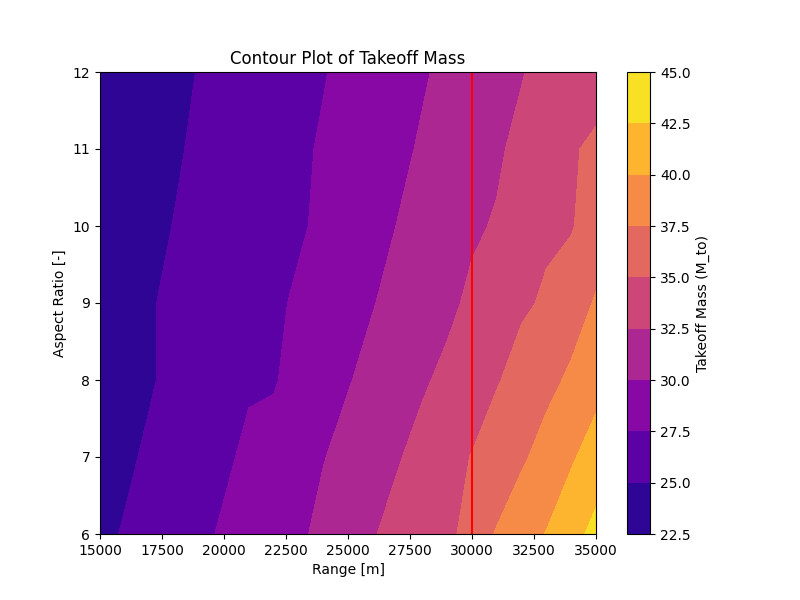
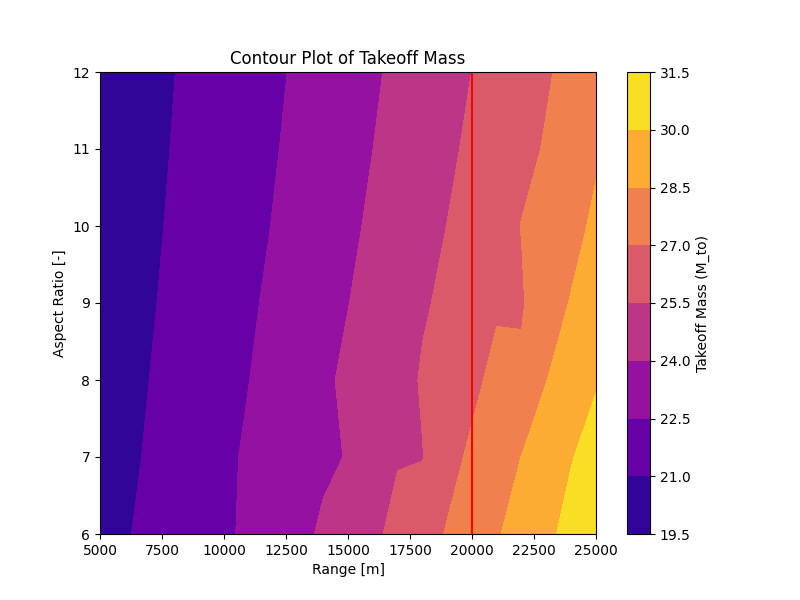
small adjustments

diff --git a/DetailedDesign/subsystems/deployment.py b/DetailedDesign/subsystems/deployment.py
@@ -40,11 +40,9 @@ class Deployment:
 
     def __init__(self, inputs: dict[str, float]) -> None:
         self.inputs = inputs
-        self.outputs = self.inputs.copy()
 
         self.payload_mass = inputs['payload_mass']
 
-        self.aerogel_mass = inputs['aerogel_mass']
         self.aerogel_width = inputs['aerogel_width']
         self.aerogel_thickness = inputs['aerogel_thickness']
         self.aerogel_density = inputs['aerogel_density']
@@ -56,7 +54,6 @@ class Deployment:
         self.n_wire = inputs['n_wire']
         self.wire_length = inputs['wire_length']
         self.wire_density = inputs['wire_density']
-        self.wire_mass = inputs['wire_mass']
 
         self.spring_mass = inputs['spring_mass']
         self.winch_mass = inputs['winch_mass']
@@ -74,34 +71,33 @@ class Deployment:
         self.epm_duration = inputs['epm_duration']
         self.power_required_winch = inputs['power_required_winch']
 
-        self.cg_change_deployment = inputs['cg_change_deployment']
         self.deployment_accuracy = inputs['deployment_accuracy']
 
         self.fuselage_size = inputs['fuselage_size']
 
     # ~~~ Intermediate Functions ~~~
 
-    def determine_aerogel_size(self):
+    def aerogel_size(self):
         '''
         Aerogel dimensions and mass based on available payload mass
         '''
         aerogel_mass = self.payload_mass - self.ferro_magnet_mass*self.n_ferro_magnets - self.deployment_added_mass
-        aerogel_length = self.aerogel_mass / (self.aerogel_width*self.aerogel_thickness)
+        aerogel_length = aerogel_mass / (self.aerogel_width*self.aerogel_thickness*self.aerogel_density)
         aerogel_diameter = compute_outer_diameter(aerogel_length, self.aerogel_thickness, self.epm_diameter)
 
         return aerogel_mass, aerogel_length, aerogel_diameter
     
-    def determine_wire_mass(self):
+    def wire_mass(self):
         '''
         Wire mass
         '''
         return self.wire_length*self.wire_density
 
-    def determine_deployment_system_mass(self):
+    def deployment_system_mass(self):
         '''
         Deployment system mass based on the number of wires, springs, winch, pulleys and EPMs
         '''
-        return self.winch_mass + self.spring_mass*self.n_wire + self.wire_mass*self.n_wire + self.payload_mass +self.n_pulleys*self.pulley_mass +self.n_epms*self.epm_mass
+        return self.winch_mass + self.spring_mass*self.n_wire + self.wire_mass()*self.n_wire + self.payload_mass +self.n_pulleys*self.pulley_mass +self.n_epms*self.epm_mass
     
     def deployment_duration(self):
         '''
@@ -109,33 +105,75 @@ class Deployment:
         '''
         return (self.wire_length / self.deployment_speed) * 2 + self.deployment_time_margin # This concerns the time that the winch is activated and using power
 
-    def determine_deployment_energy(self):
+    def deployment_energy(self):
         '''
         Total deployment power and energy required, conservative estimates
         '''
         total_deployment_power = self.power_required_epm * self.n_epms + self.power_required_winch # Conservative estimate, as usually only 2 out of 4 EPMs are powered at the same time
-        total_energy =  self.power_required_winch * self.deployment_duration() + self.power_required_epm * self.n_epms * self.epm_duration # If winch is fully extended during deployment, then the deployment duration should not include the deployment time margin
+        total_deployment_energy =  self.power_required_winch * self.deployment_duration() + self.power_required_epm * self.n_epms * self.epm_duration # If winch is fully extended during deployment, then the deployment duration should not include the deployment time margin
 
-        return total_deployment_power, total_energy
+        return total_deployment_power, total_deployment_energy
 
-    def determine_cg_change(self):
+    def cg_change(self):
         ...
 
     # ~~~ Output functions ~~~ 
 
-    def get_aerogel_dimensions():
-        return True
+    def get_aerogel_dimensions(self):
+        outputs = self.inputs.copy()
+        aerogel_mass, aerogel_length, aerogel_diameter = self.aerogel_size()
+        outputs['aerogel_mass'] = aerogel_mass
+        outputs['aerogel_length'] = aerogel_length
+        outputs['aerogel_diameter'] = aerogel_diameter
+        return outputs
     
-    def get_deployment_system_dimensions():
-        return True
+    def get_deployment_power(self):
+        outputs = self.inputs.copy()
+        total_deployment_power, total_deployment_energy = self.deployment_energy()
+        outputs['total_deployment_power'] = total_deployment_power
+        outputs['total_deployment_energy'] = total_deployment_energy
+        return outputs
+
+    def get_deployment_system_mass(self):
+        #splits
+        outputs = self.inputs.copy()
+        outputs['deployment_system_mass'] = self.deployment_system_mass()
+        outputs['aerogel_mass'], _, _ = self.aerogel_size()
+        outputs['wire_mass'] = self.wire_mass()
+        return outputs
     
-    def get_cg_change():
+    def get_deployment_duration(self):
+        outputs = self.inputs.copy()
+        outputs['deployment_duration'] = self.deployment_duration()
+        return outputs
+
+    
+    def get_cg_change(self):
         ...
 
     def get_all(self) -> dict[str, float]:
+        outputs = self.inputs.copy() 
 
-        return self.outputs
+        aerogel_mass, aerogel_length, aerogel_diameter = self.aerogel_size()
+        outputs['aerogel_mass'] = aerogel_mass
+        outputs['aerogel_length'] = aerogel_length
+        outputs['aerogel_diameter'] = aerogel_diameter
+
+        total_deployment_power, total_deployment_energy = self.deployment_energy()
+        outputs['total_deployment_power'] = total_deployment_power
+        outputs['total_deployment_energy'] = total_deployment_energy
+
+        outputs['deployment_system_mass'] = self.deployment_system_mass()
+
+        outputs['deployment_duration'] = self.deployment_duration()
+
+        return outputs
+    
+    def __str__(self):
+        return 'Its the deployment system!'
     
 if __name__ == '__main__':
     # Perform sanity checks here
-    print(funny_inputs)
+    test = Deployment(funny_inputs)
+
+    print(test.get_all())

diff --git a/PreliminaryDesign/performance_analysis.py b/PreliminaryDesign/performance_analysis.py
@@ -33,7 +33,7 @@ def AR_range_diagram(AR_range: list, range_range: list, mass_calculation: callab
     plt.figure(figsize=(8, 6))
     cp = plt.contourf(X, Y, Z, cmap='plasma')
     plt.colorbar(cp, label='Takeoff Mass (M_to)')
-    plt.vlines(30000, AR_range[0], AR_range[-1], label="Required Range", color="red")
+    plt.vlines(20000, AR_range[0], AR_range[-1], label="Required Range", color="red")
 
 
     plt.xlabel('Range [m]')
@@ -93,7 +93,7 @@ def payload_range_diagram(payload_range: list, range_range: list, mass_calculati
     plt.figure(figsize=(8, 6))
     cp = plt.contourf(X, Y, Z, cmap='plasma')
     plt.colorbar(cp, label='Takeoff Mass [kg]')
-    plt.vlines(30000, payload_range[0], payload_range[-1], label="Required Range", color="red")
+    plt.vlines(20000, payload_range[0], payload_range[-1], label="Required Range", color="red")
     plt.hlines(5, range_range[0], range_range[-1], color='red', label='Required Payload')
 
     plt.xlabel('Range [m]')
@@ -231,12 +231,12 @@ def cruise_speed_range_deployment_rate(V_range, range_range, inputs):
     #plt.show()
 
 if __name__ == '__main__':
-    # AR_range_diagram(np.arange(6, 13),np.arange(15000, 35001, 1000), integration_optimization, inputs)
+    AR_range_diagram(np.arange(6, 13),np.arange(5000, 25001, 1000), integration_optimization, inputs)
     # # cruise_speed_mass_diagram(np.arange(int(50/3.6), int(150/3.6), 2), inputs, integration_optimization)
-    # payload_range_diagram(np.arange(0, 6.5, 0.5), np.arange(15000, 35001, 1000), integration_optimization, inputs)
+    payload_range_diagram(np.arange(0, 6.5, 0.5), np.arange(5000, 25001, 1000), integration_optimization, inputs)
     
     # swarm_deployment_plot(np.arange(int(60/3.6), int(150/3.6), 5), np.arange(0, 6, 0.5), inputs)
     # deployment_rate_n_UAVS_plot(inputs, np.arange(0, 41))
-    cruise_speed_range_deployment_rate(np.arange(int(50/3.6), int(150/3.6)), np.arange(5000, 20001, 1000), inputs)
+    # cruise_speed_range_deployment_rate(np.arange(int(50/3.6), int(150/3.6)), np.arange(5000, 20001, 1000), inputs)
 
 

diff --git a/DetailedDesign/funny_inputs.py b/DetailedDesign/funny_inputs.py
@@ -32,8 +32,8 @@ deployment_funny_inputs = {
     'deployment_added_mass' : 1., # kg, guesstimate
 
     'wire_length' : 15., # m
-    'wire_density' : 0.27, # kg/m
-    'n_wires' : 2, # nr
+    'wire_density' : 0.01488, # kg/m
+    'n_wire' : 2, # nr
 
     'spring_mass' : 0., # kg
     'winch_mass' : 1.5, #kg
@@ -45,7 +45,7 @@ deployment_funny_inputs = {
 
     'deployment_system_volume' : 0.0026554, # m3, guesstimate only incl. winch volume
     'deployment_speed' : 0.3, # m/s
-    'deployment_time_margin' : 15., # s, guesstimate for aerogel unrolling, final positioning, and dropping
+    'deployment_time_margin' : 30., # s, guesstimate for aerogel unrolling, final positioning, and dropping
 
     'power_required_epm' : 20., # W
     'epm_duration' : 8., # s, maximum OFF-mode duration

diff --git a/PreliminaryDesign/Nest_Sizing.py b/PreliminaryDesign/Nest_Sizing.py
@@ -305,7 +305,7 @@ class Nest:
             n_cap_nest_gen = int(v_op_gen // self.v_uav_bat)  # Number of whole drones (with battery) that fit in v_op
             n_remaining = int(self.n_drones - n_cap_nest_gen)
 
-            print(f"number of remaining drones: {n_remaining}")
+            # print(f"number of remaining drones: {n_remaining}")
 
             # n_cap_nest_nogen = int(v_op_nogen // self.v_uav_bat)  # Number of drones in overflow container
             # n_nest_nogen = n_remaining // n_cap_nest_nogen  # Number of overflow containers needed
